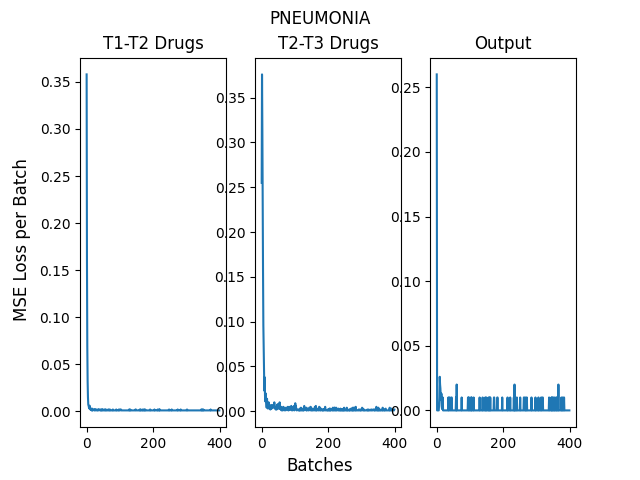
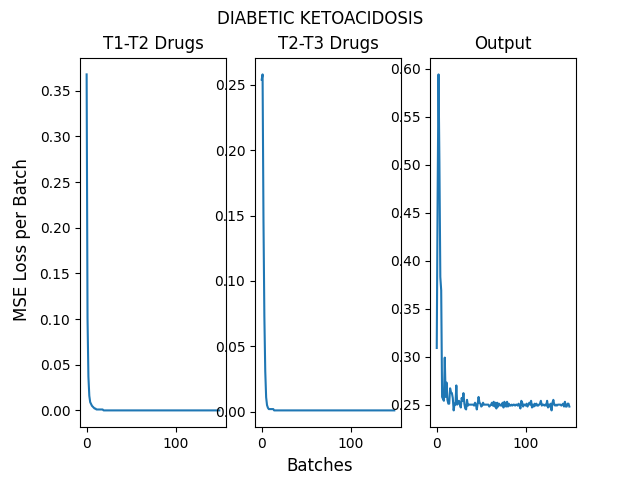
remove old results, minor refactoring

diff --git a/mimic3/multistage/model.py b/mimic3/multistage/model.py
@@ -52,13 +52,11 @@ class DrugDataset(FeatureDataset):
 
 
 class Model(nn.Module):
-    def __init__(self,input_size,output_size,sigmoid_activation=False):
+    def __init__(self,input_size,output_size):
         super().__init__()
         self.linear=nn.Linear(input_size,output_size)
-        self.sigmoid_activation=sigmoid_activation
 
     def forward(self,x):
-
         out=self.linear(x)
         return out
 

diff --git a/mimic3/multistage/main.py b/mimic3/multistage/main.py
@@ -73,7 +73,7 @@ for diagnosis in ['DIABETIC KETOACIDOSIS']:
 
         feature_model=Model(912,10)
         drug_model=Model(912,902)
-        outpt_model=Model(912,1,sigmoid_activation=True)
+        outpt_model=Model(912,1)
 
         multistage_model=MultiStageModel(feature_model,drug_model,outpt_model)
         multistage_model.apply(reset_weights)
